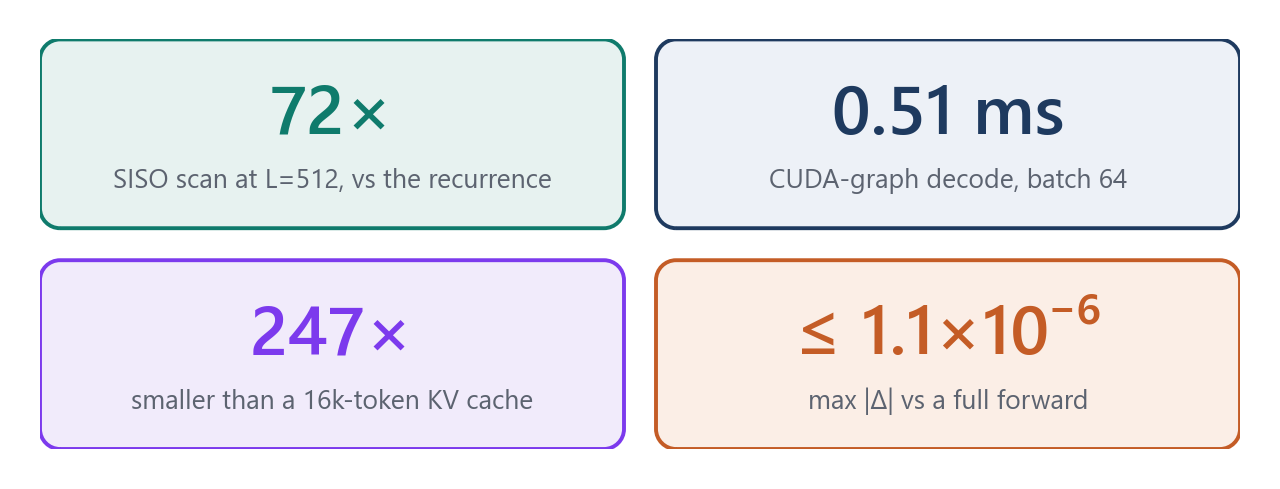
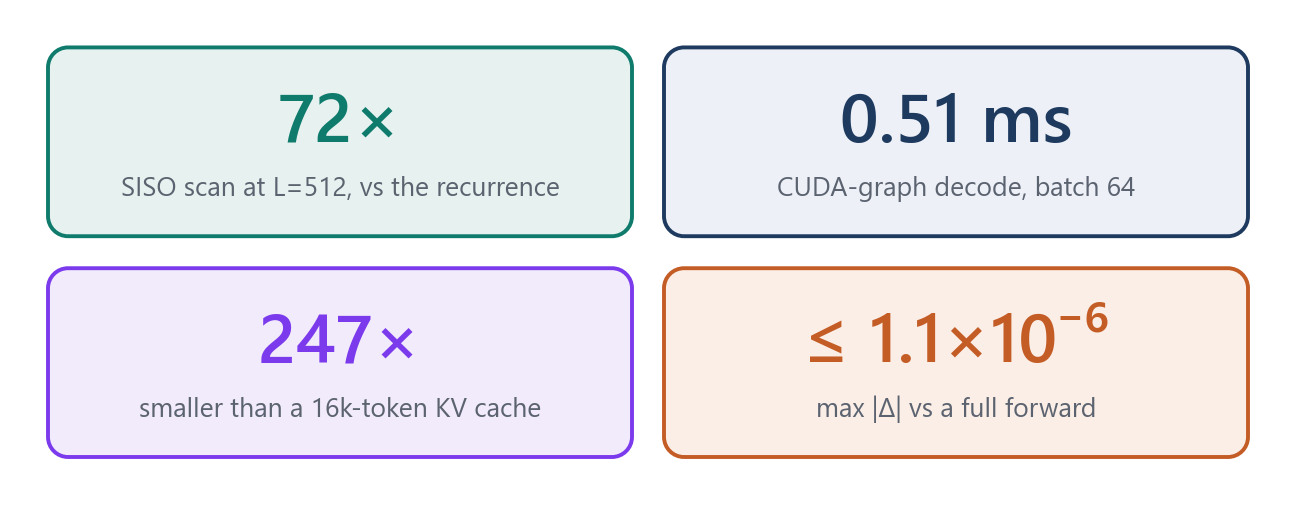
Stop clipping the outer card borders to half a stroke
The outer cards sat exactly on the axes bounds, and a PathPatch clips to the axes by default, so their straight edges rendered 1.95 px wide against the 3.89 px of the inset corner arcs. Give the axes a hairline bleed instead.

diff --git a/stats_figure.py b/stats_figure.py
@@ -34,6 +34,7 @@ GAP = 0.16
 RADIUS = 0.10
 NUM_SIZE, CAP_SIZE = 25.0, 9.6
 PAD = 0.30
+BLEED = 0.04    # the outer cards would otherwise be clipped to half a stroke
 
 
 def main() -> None:
@@ -42,9 +43,9 @@ def main() -> None:
     card_h = lh(NUM_SIZE) + lh(CAP_SIZE) + PAD
     ax_h = 2 * card_h + GAP
 
-    fig, ax = plt.subplots(figsize=(AX_W, ax_h))
-    ax.set_xlim(0, AX_W)
-    ax.set_ylim(0, ax_h)
+    fig, ax = plt.subplots(figsize=(AX_W + 2 * BLEED, ax_h + 2 * BLEED))
+    ax.set_xlim(-BLEED, AX_W + BLEED)
+    ax.set_ylim(-BLEED, ax_h + BLEED)
     ax.axis("off")
     fig.subplots_adjust(left=0, right=1, top=1, bottom=0)
 
